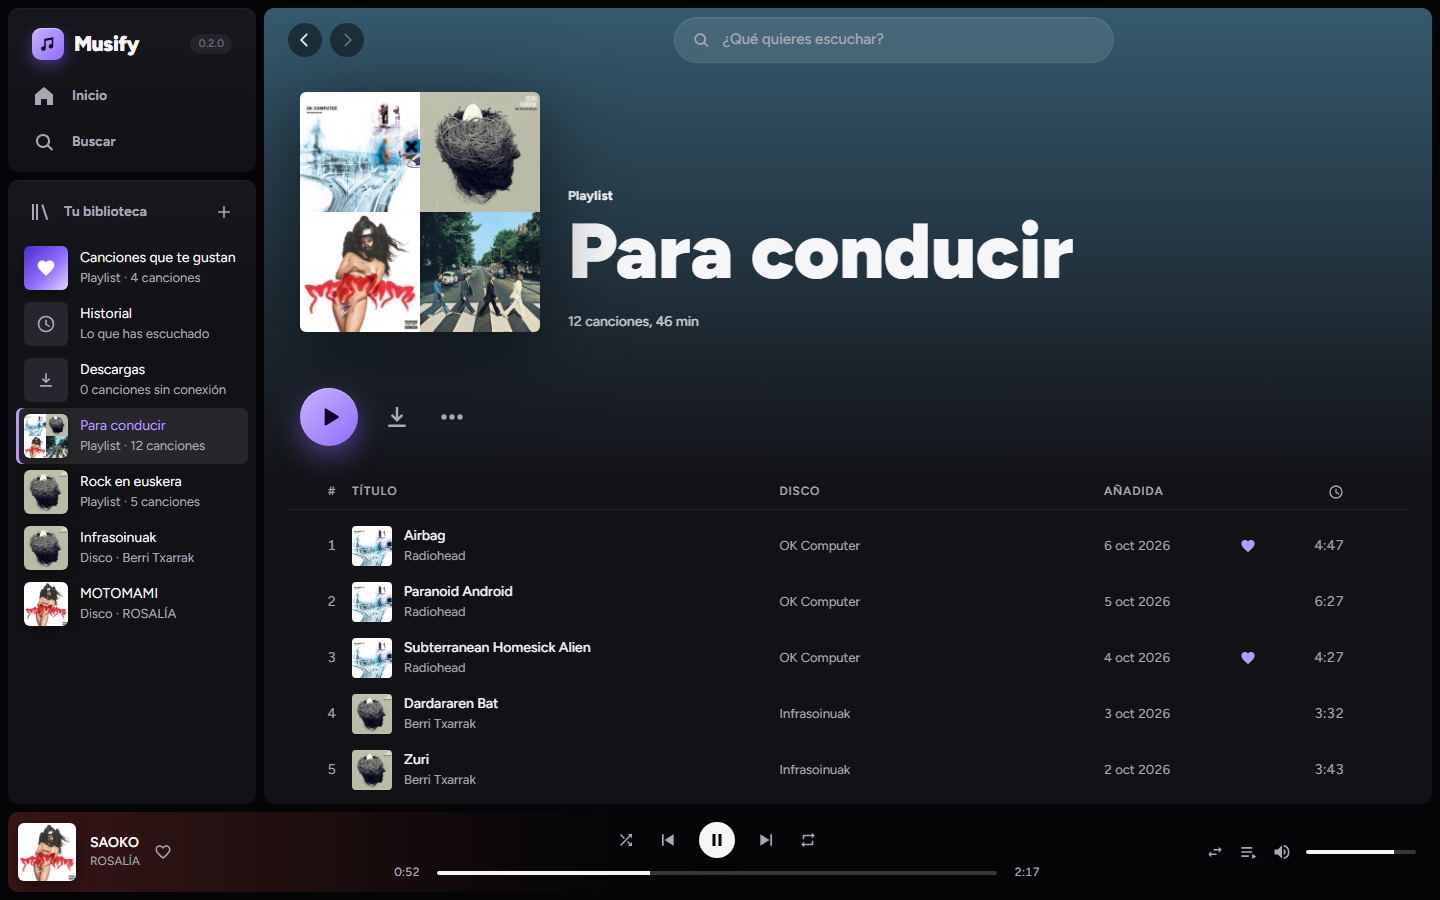
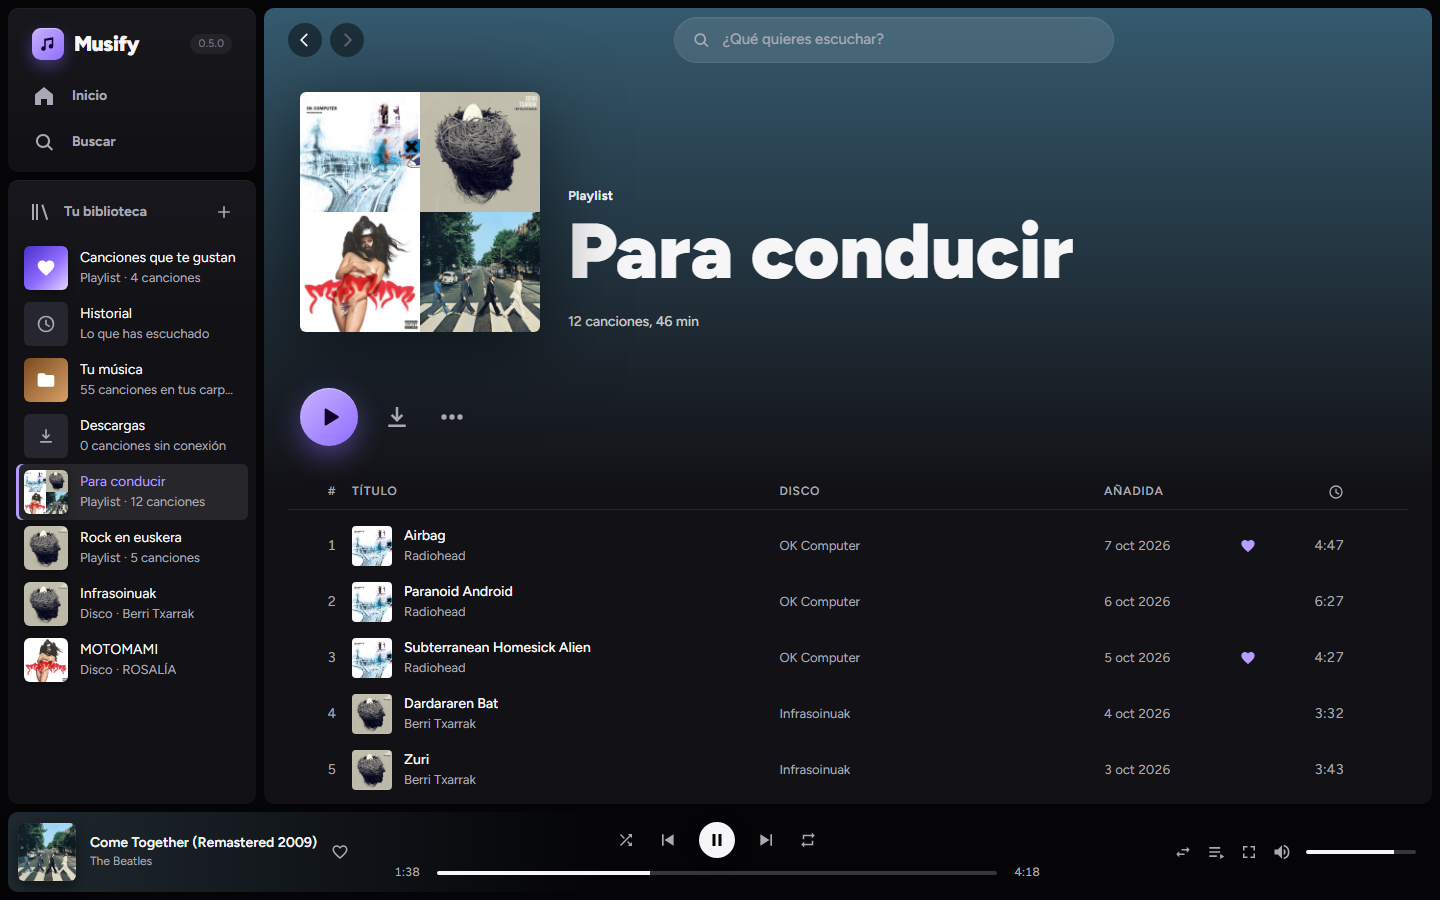
README: capturas nuevas de escritorio y del móvil, Android, compilar el APK y publicar a mano; Inicio en el móvil: el botón de lo que suena va sobre la carátula

diff --git a/src/dev/preview.ts b/src/dev/preview.ts
@@ -28,8 +28,15 @@ export async function apply() {
     if (p.has('np')) theme.nowPlaying = true
     // En un navegador sin sonido (capturas) el audio no arranca: se simula una canción a mitad.
     // Se repite unos segundos porque el audio de prueba (30 s de silencio) pisa la duración al cargar.
+    // El audio de verdad se pausa: con el tiempo acelerado de las capturas llegaría al final y
+    // pasaría a la canción siguiente.
     const track = queue[index].track
+    let paused = false
     const fake = setInterval(() => {
+      if (!paused && player.status === 'playing') {
+        player.toggle()
+        paused = true
+      }
       player.status = 'playing'
       player.duration = track.duration
       player.time = Math.round(track.duration * 0.38)

diff --git a/src/views/Home.svelte b/src/views/Home.svelte
@@ -310,5 +310,13 @@
     .tile-title {
       font-size: 13px;
     }
+    /* El botón de lo que suena va sobre la carátula: al lado, el título no cabría. */
+    .tile-play {
+      position: absolute;
+      top: 12px;
+      left: 12px;
+      width: 32px;
+      height: 32px;
+    }
   }
 </style>

diff --git a/README.md b/README.md
@@ -1,17 +1,47 @@
 # Musify
 
-Reproductor de música personal tipo Spotify para Windows, Mac, Linux y Android. Busca grupos y discos en Deezer (carátulas y listas de canciones), encuentra cada canción en YouTube Music y la reproduce en streaming de solo audio, sin anuncios. Biblioteca, playlists, historial, descargas para escuchar sin conexión y actualizaciones automáticas.
+Reproductor de música personal tipo Spotify para Windows, Mac, Linux y Android. Busca grupos y discos en Deezer (carátulas y listas de canciones), encuentra cada canción en YouTube Music y la reproduce en streaming de solo audio, sin anuncios. Biblioteca, playlists, historial, cola tipo DJ y actualizaciones automáticas; en el PC, además, descargas para escuchar sin conexión y tu propia música.
 
 ![Inicio](docs/screenshots/inicio.png)
 
 | | |
 |---|---|
 | ![Disco](docs/screenshots/disco.png) | ![Artista](docs/screenshots/artista.png) |
+| **Disco:** la portada tiñe toda la pantalla | **Artista:** foto de cabecera y sus canciones más escuchadas |
 | ![Sonando ahora](docs/screenshots/sonando.png) | ![Playlist](docs/screenshots/playlist.png) |
+| **Sonando ahora:** pantalla completa con la cola | **Playlist:** se ordena arrastrando |
 
-- **Tauri 2** (Rust) + **Svelte 5** + TypeScript. Instalador de unos 2 MB en Windows.
-- Datos en local (SQLite en la carpeta de datos de la app).
+### En el móvil
+
+La misma app, pensada para el dedo. La música suena en un servicio de Android: sigue con la pantalla apagada y se maneja desde la pantalla de bloqueo, la notificación y los auriculares.
+
+<table>
+  <tr>
+    <td><img src="docs/screenshots/movil-inicio.png" alt="Inicio en el móvil" width="260"></td>
+    <td><img src="docs/screenshots/movil-sonando.png" alt="Sonando ahora en el móvil" width="260"></td>
+    <td><img src="docs/screenshots/movil-cola.png" alt="Cola en el móvil" width="260"></td>
+  </tr>
+  <tr>
+    <td><b>Inicio</b>, con lo que suena abajo</td>
+    <td><b>Sonando ahora</b>: se cierra deslizando hacia abajo</td>
+    <td><b>Cola</b>: tu cola se ordena arrastrando el asa</td>
+  </tr>
+  <tr>
+    <td><img src="docs/screenshots/movil-disco.png" alt="Disco en el móvil" width="260"></td>
+    <td><img src="docs/screenshots/movil-biblioteca.png" alt="Tu biblioteca en el móvil" width="260"></td>
+    <td><img src="docs/screenshots/movil-bloqueo.png" alt="Pantalla de bloqueo" width="260"></td>
+  </tr>
+  <tr>
+    <td><b>Disco</b></td>
+    <td><b>Tu biblioteca</b>: playlists, discos y la versión</td>
+    <td><b>Pantalla de bloqueo</b>: sigue sonando con la pantalla apagada</td>
+  </tr>
+</table>
+
+- **Tauri 2** (Rust) + **Svelte 5** + TypeScript. Instalador de unos 3 MB en Windows; el APK de Android, 12 MB.
+- Datos en local (SQLite en la carpeta de datos de la app). El PC y el móvil tienen cada uno los suyos: todavía no se sincronizan.
 - El audio de YouTube sale de yt-dlp, de youtubei.js o de un motor propio (se elige pulsando el número de versión, arriba a la izquierda; en el móvil, siempre el propio). Cada extractor se actualiza solo desde su fuente, sin reinstalar la app: yt-dlp desde su GitHub, youtubei.js desde npm y el motor propio desde este repositorio.
+- En Android, la música la reproduce un servicio nativo (Media3/ExoPlayer) que pide el audio directamente al núcleo de Rust; la interfaz es el mando.
 
 El plan, el estado de cada fase y las decisiones están en [PLAN.md](PLAN.md); lo del móvil, en [docs/plan-mobile.md](docs/plan-mobile.md).
 
@@ -25,7 +55,7 @@ No está en Google Play: se instala y se actualiza con [Obtainium](https://githu
 
 A partir de ahí, Obtainium avisa cuando hay versión nueva y la instala encima, sin perder la biblioteca. La app también lo dice en «Tu biblioteca». Sin Obtainium, el APK se puede bajar de la [última versión](https://github.com/diad87/musify-releases/releases/latest) e instalar a mano.
 
-Para compilar el APK en el PC hacen falta el SDK y el NDK de Android y Java 21 (ver [docs/plan-mobile.md](docs/plan-mobile.md)): `npm run tauri android build -- --apk --target aarch64`. Sale firmado si está la clave en `%USERPROFILE%\.musify\android.jks`.
+En el móvil todavía no hay música guardada en el teléfono ni descargas (fase 4 del plan).
 
 ## Desarrollo
 
@@ -40,13 +70,23 @@ npm run check          # tipos
 cd src-tauri && cargo test   # tests (con red: cargo test -- --ignored --nocapture)
 ```
 
-Las capturas se sacan de la vista previa del navegador (`npm run dev`), por ejemplo `http://localhost:1420/?view=album&id=14879699&play=1&playId=14879699` (ver `src/dev/preview.ts`).
+**Android:** además, el SDK de Android con el NDK 27.3.13750724, Java 21 y el objetivo de Rust `aarch64-linux-android` (y `x86_64-linux-android` para el emulador). `npm run tauri android build -- --apk --target aarch64` compila el APK; sale firmado si está la clave en `%USERPROFILE%\.musify\android.jks`. En Windows, Tauri no puede crear el enlace a la librería de Rust: se copia `src-tauri/target/<objetivo>/release/libmusify_lib.so` a `src-tauri/gen/android/app/src/main/jniLibs/<abi>/` y se termina con Gradle (`gradlew.bat assembleUniversalRelease -x rustBuildUniversalRelease`). Detalles y pruebas en [docs/plan-mobile.md](docs/plan-mobile.md).
+
+Las capturas de escritorio se sacan de la vista previa del navegador (`npm run dev`), por ejemplo `http://localhost:1420/?view=album&id=14879699&play=1&playId=14879699` (ver `src/dev/preview.ts`), a 1440×900. Las del móvil, del emulador de Android con la app de verdad.
 
 ## Publicar una versión
 
 1. Subir la versión en `package.json` y `src-tauri/Cargo.toml`.
 2. Commit y etiqueta anotada: `git tag -a vX.Y.Z` (el mensaje de la etiqueta son las notas de la versión) y `git push --follow-tags`.
 3. GitHub Actions compila Windows, Mac, Linux y el APK de Android, los firma, genera `latest.json` y publica en [musify-releases](https://github.com/diad87/musify-releases), de donde las apps instaladas se actualizan solas (las de Android, con Obtainium).
+
+Para publicar hace falta el secreto `RELEASES_TOKEN`. Sin él, Actions lo compila todo pero no lo publica; se publica a mano con los artefactos de esa ejecución:
+
+```bash
+gh run download <id> -R diad87/musify -D artifacts
+node scripts/release.mjs artifacts vX.Y.Z notas.md
+gh release create vX.Y.Z artifacts/_release/* -R diad87/musify-releases --title "Musify X.Y.Z" --notes-file notas.md
+```
 
 ## Publicar extractores
 
@@ -57,6 +97,8 @@ Los extractores (receta y script del motor propio, youtubei.js) se publican apar
 
 Cada día GitHub Actions mira también si hay youtubei.js nuevo y, si funciona, lo pone y lo publica. A mano: `node scripts/extractors.mjs` (o `--dry-run`, o `--to <carpeta>` para probar con `MUSIFY_EXTRACTORS_URL`).
 
-Las claves de firma están en `%USERPROFILE%\.musify\` (`updater.key` para escritorio y extractores, `android.jks` para el APK, cada una con su contraseña) y en los secretos del repositorio; sin ellas no se pueden publicar actualizaciones. Si se pierde la de Android, los móviles no aceptan la versión siguiente sin desinstalar (y perder la biblioteca): hay que guardar una copia de esa carpeta. Para que GitHub Actions publique en musify-releases hace falta además el secreto `RELEASES_TOKEN`.
+## Claves de firma
+
+Están en `%USERPROFILE%\.musify\` y en los secretos del repositorio: `updater.key` para escritorio y extractores (`TAURI_SIGNING_PRIVATE_KEY`) y `android.jks` para el APK (`ANDROID_KEYSTORE`), cada una con su contraseña. Sin ellas no se pueden publicar actualizaciones. Si se pierde la de Android, los móviles no aceptan la versión siguiente sin desinstalar (y perder la biblioteca): hay que guardar una copia de esa carpeta.
 
 Uso personal.
